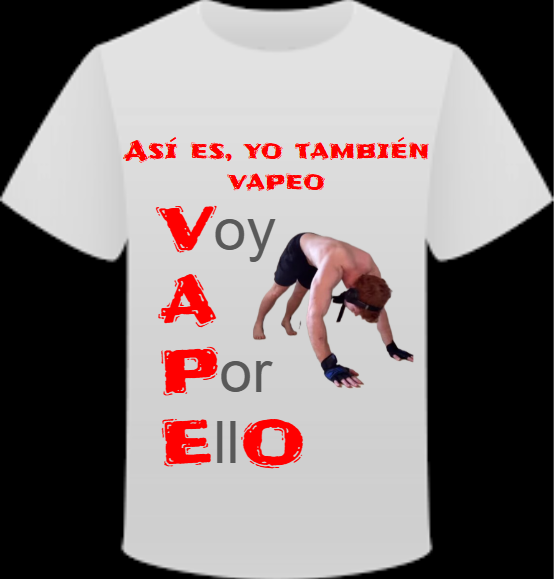
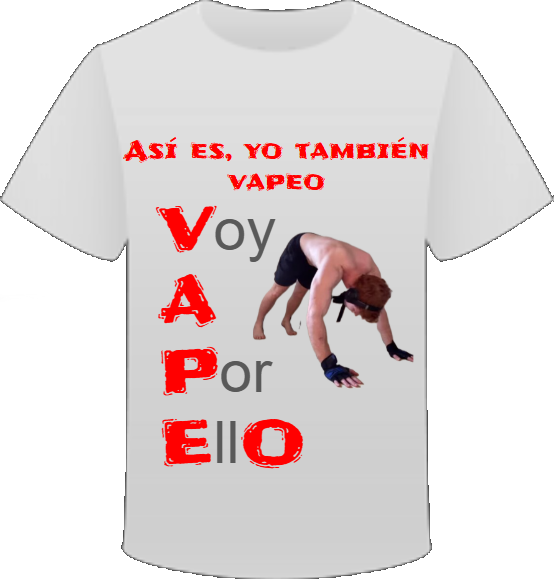
Más cosas de la web

diff --git a/js/cartsidebar.js b/js/cartsidebar.js
@@ -12,30 +12,37 @@ function addToCart(item) {
 
 function updateCartUI() {
     const cartItems = document.getElementById('cartItems');
-    const cartTotal = document.getElementById('cartTotal');
+    const cartTotal = document.getElementById('cartTotalPrice');
+    const cartName = document.getElementById('cartName');
     cartItems.innerHTML = '';
 
     if (cart.length === 0) {
         cartItems.innerHTML = '<p>el carrito está vacío.</p>';
-        cartTotal.textContent = 'total: 0.00€';
+        cartTotal.textContent = '0.00€';
+        cartName.textContent = "carrito (0)";
         return;
     }
 
     let total = 0;
+    let totalItems = 0;
     cart.forEach(item => {
         const itemEl = document.createElement('div');
+        itemEl.classList.add('cart-item');
         itemEl.innerHTML = `
-            <p>
+            <img src="${item.image}" alt="${item.name}" class="cart-item-image">
+            <div>
                 <strong>${item.name}</strong><br>
-                ${item.quantity} × $${item.price.toFixed(2)} = $${(item.quantity * item.price).toFixed(2)}
-            </p>
+                ${item.quantity} × ${item.price.toFixed(2)}€ = ${(item.quantity * item.price).toFixed(2)}€
+            </div>
             <hr>
         `;
         cartItems.appendChild(itemEl);
         total += item.quantity * item.price;
+        totalItems += item.quantity;
     });
 
-    cartTotal.textContent = `Total: $${total.toFixed(2)}`;
+    cartName.textContent = `carrito (${totalItems})`;
+    cartTotal.textContent = `${total.toFixed(2)}€`;
 }
 
 document.addEventListener("DOMContentLoaded", () => {

diff --git a/index.html b/index.html
@@ -8,7 +8,7 @@
         <link rel="icon" type="image/x-icon" href="assets/images/logos/LogazoPNG.png">
         <link rel="preconnect" href="https://fonts.googleapis.com">
         <link rel="preconnect" href="https://fonts.gstatic.com" crossorigin>
-        <link href="https://fonts.googleapis.com/css2?family=Doto:wght@100..900" rel="stylesheet">
+        <link href="https://fonts.googleapis.com/css2?family=Doto:wght@100..900&family=Electrolize&display=swap" rel="stylesheet">
 
         
     </head>
@@ -22,14 +22,14 @@
                 </a>
             </div>
             <div class="cart">
-                <a href="">carrito (0)</a>
+                <a href="" id="cartName">carrito (0)</a>
             </div>
         </header>
         <!--Barra de navegación-->
         <nav>
             <a href="" class="active">inicio</a>
-            <a href="">nosotros</a>
             <a href="">tienda</a>
+            <a href="">nosotros</a>
             <a href="">noticias</a>
         </nav>
         
@@ -50,12 +50,13 @@
                 <div id="cartItems">
                 </div>
                 <div id="cartTotal" style="margin-top: 1rem; font-weight: bold;">
-                    total: 0.00€
+                    total: <div class="price" id="cartTotalPrice">0,00€</div>
                 </div>
             </div>
         </div>
 
         <script src="js/contentswitching.js"></script>
         <script src="js/cartsidebar.js"></script>
+        <script src="js/shop.js"></script>
     </body>
 </html>

diff --git a/js/shop.js b/js/shop.js
@@ -1,0 +1,38 @@
+function loadProducts(products) {
+    const productList = document.getElementById("productList");
+    productList.innerHtml = "";
+
+    console.log(productList)
+    products.forEach(product => {
+        const productDiv = document.createElement("div");
+        productDiv.classList.add("product-card");
+        productDiv.innerHTML = `
+            <img src="${product.image}" alt="${product.name}" class="product-image">
+            <h3>${product.name}</h3>
+            <p class="price">${product.price.toFixed(2)}€</p>
+            <button class="add-to-cart" data-id="${product.id}" data-name="${product.name}" data-price="${product.price}" data-image="${product.image}">añadir al carrito</button>
+        `;
+        productList.appendChild(productDiv);
+    });
+    console.log(productList)
+}
+
+document.addEventListener("click", (e) => {
+    if(e.target.classList.contains("add-to-cart")) {
+        const product = {
+            id: e.target.getAttribute("data-id"),
+            name: e.target.getAttribute("data-name"),
+            price: parseFloat(e.target.getAttribute("data-price")),
+            image: e.target.getAttribute("data-image"),
+            quantity: 1
+        };
+
+        addToCart(product);
+    }
+});
+
+function loadProductsFromJson() {
+    fetch("assets/data/products.json").then(response => response.json()).then(products => {
+        loadProducts(products);
+    }).catch(error => console.error("Error cargando los productos: ", error));
+}

diff --git a/styles/index.css b/styles/index.css
@@ -131,11 +131,6 @@ nav a:hover::after, nav a.active::after {
     font-size: 1rem;
 }
 
-.price {
-    margin: 0.5rem 0;
-    font-weight: bold;
-}
-
 .add-button {
     background: none;
     border: 1px solid #fff;
@@ -195,6 +190,11 @@ nav a:hover::after, nav a.active::after {
     margin-bottom: 2rem;
 }
 
+.cart-item-image {
+    width: 50%;
+    height: 100%;
+}
+
 #cartTotal {
     font-weight: bold;
     text-align: center;
@@ -215,4 +215,42 @@ nav a:hover::after, nav a.active::after {
     top: 1rem;
     right: 1rem;
     cursor: pointer;
+}
+
+.product-card {
+    display: inline-block;
+    width: 15rem;
+    height:25rem;
+    padding: 10px;
+    text-align: center;
+}
+
+.product-image {
+    width: 50%;
+    height: 100%;
+    height: auto;
+    object-fit: cover;
+}
+
+.add-to-cart {
+    color: #fff;
+    font-family: "Doto", sans-serif;
+    font-optical-sizing: auto;
+    font-weight: 400;
+    font-style: normal;
+    font-variation-settings:
+      "ROND" 0;
+    margin-top: 10px;
+    padding: 5px 10px;
+    background-color: #333;
+    border: none;
+    cursor: pointer;
+}
+
+.price {
+    font-family: "Electrolize", sans-serif;
+    font-weight: 400;
+    font-style: normal;
+    margin: 0.5rem 0;
+    font-weight: bold;
 }

diff --git a/js/contentswitching.js b/js/contentswitching.js
@@ -9,6 +9,8 @@ async function loadPage(pageName) {
         const response = await fetch(`pages/${pageName}.html`);
         const html = await response.text();
         content.innerHTML = html;
+        if(pageName == "tienda") loadProductsFromJson();
+        
     } catch (e) {
         
     }

diff --git a/pages/tienda.html b/pages/tienda.html
@@ -1,2 +1,7 @@
-<section>
+<section id="shop">
+    <div class = "shop-header">
+        <h1><b>tienda</b></h1>
+    </div>
+
+    <div id="productList"></div>
 </section>
